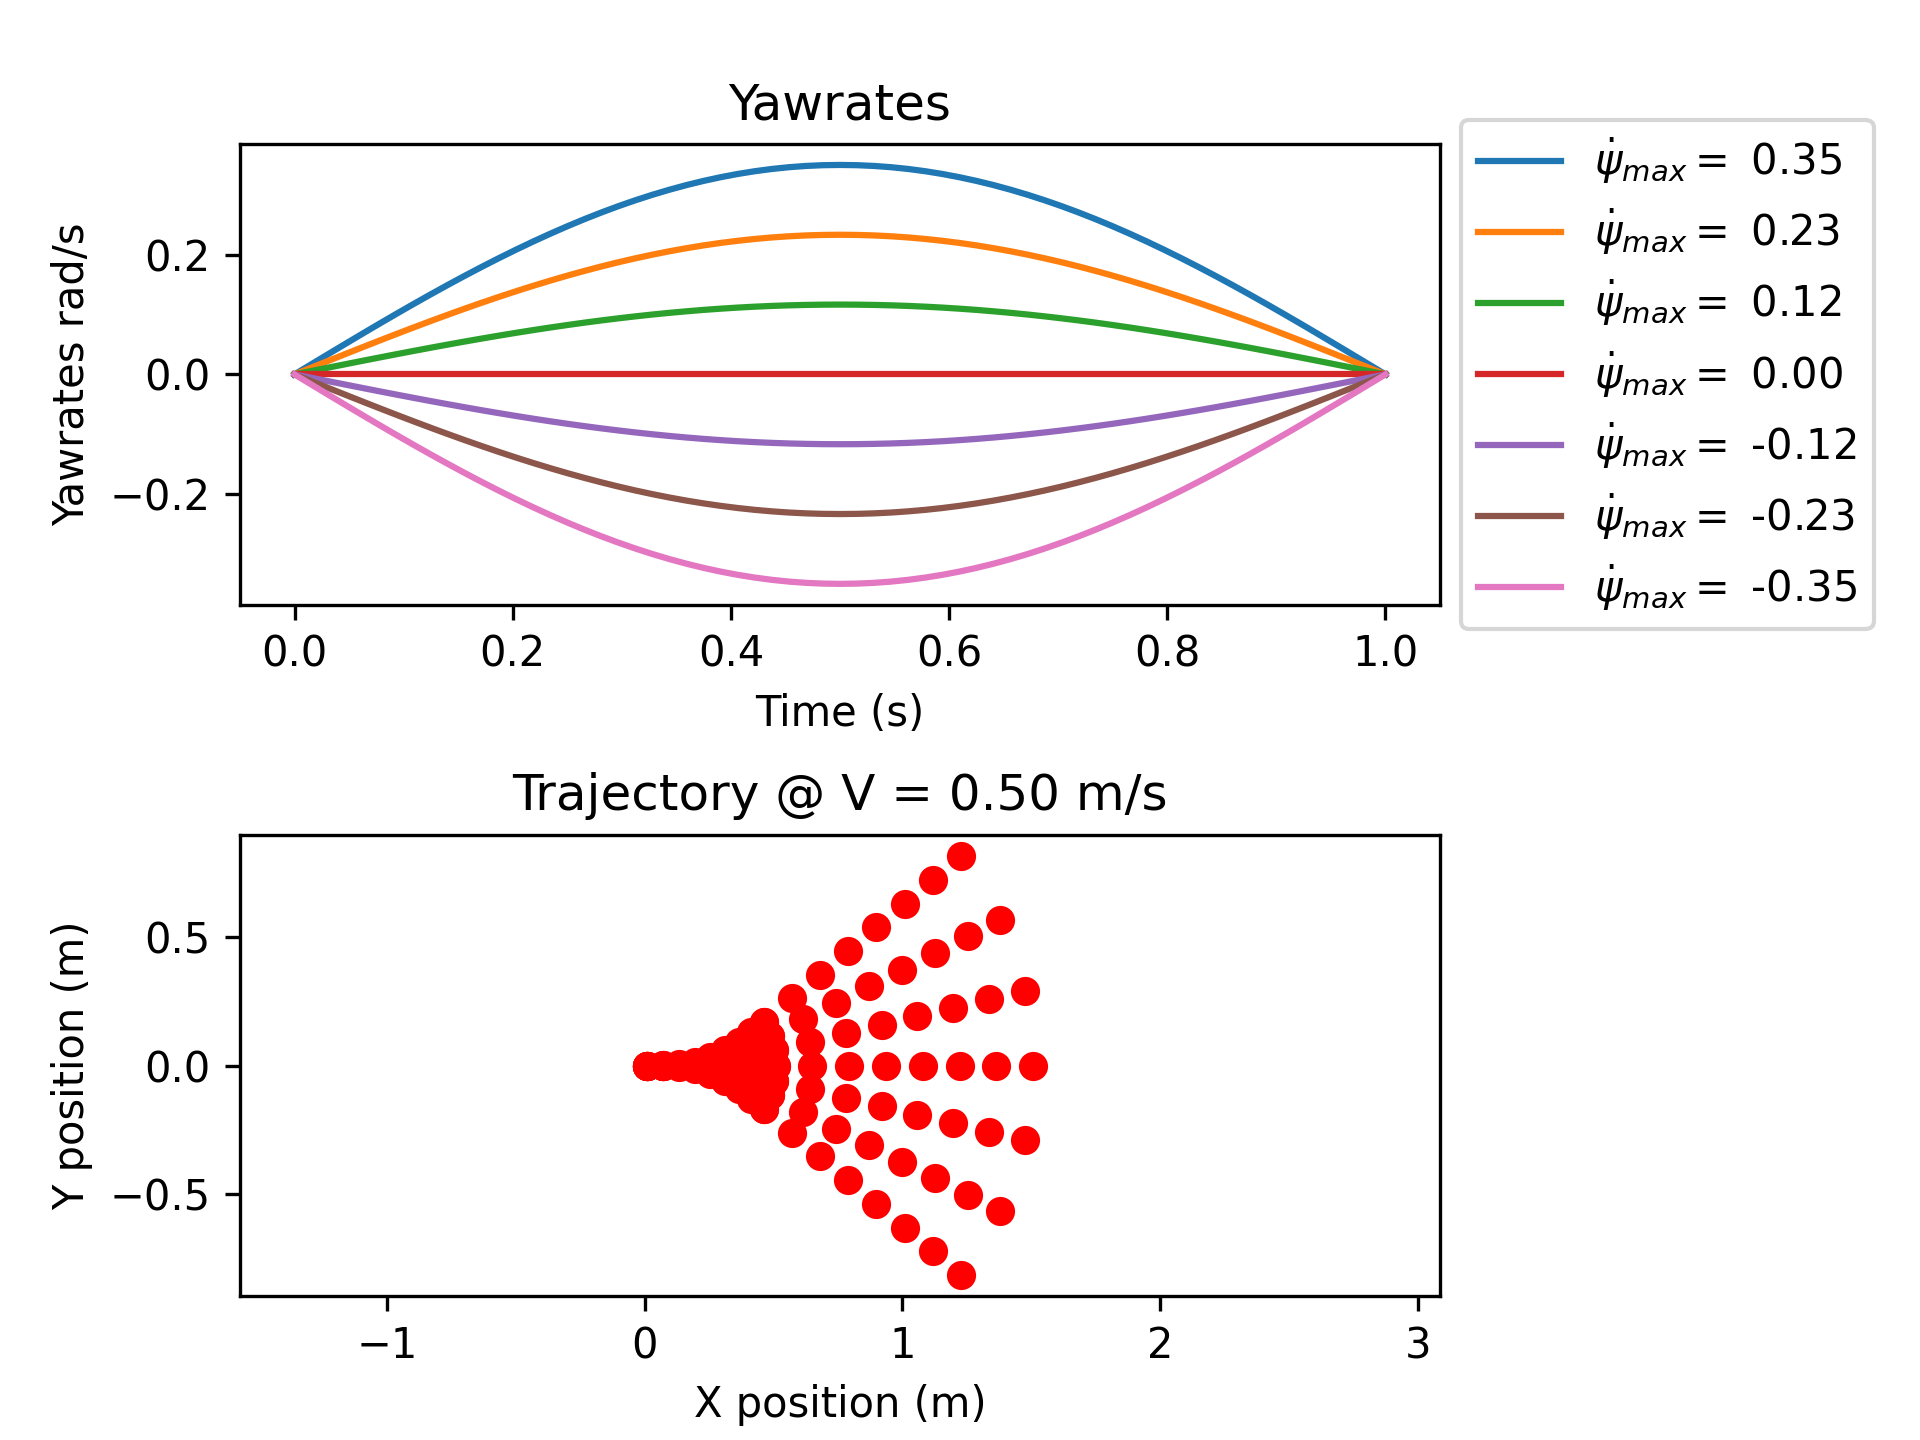
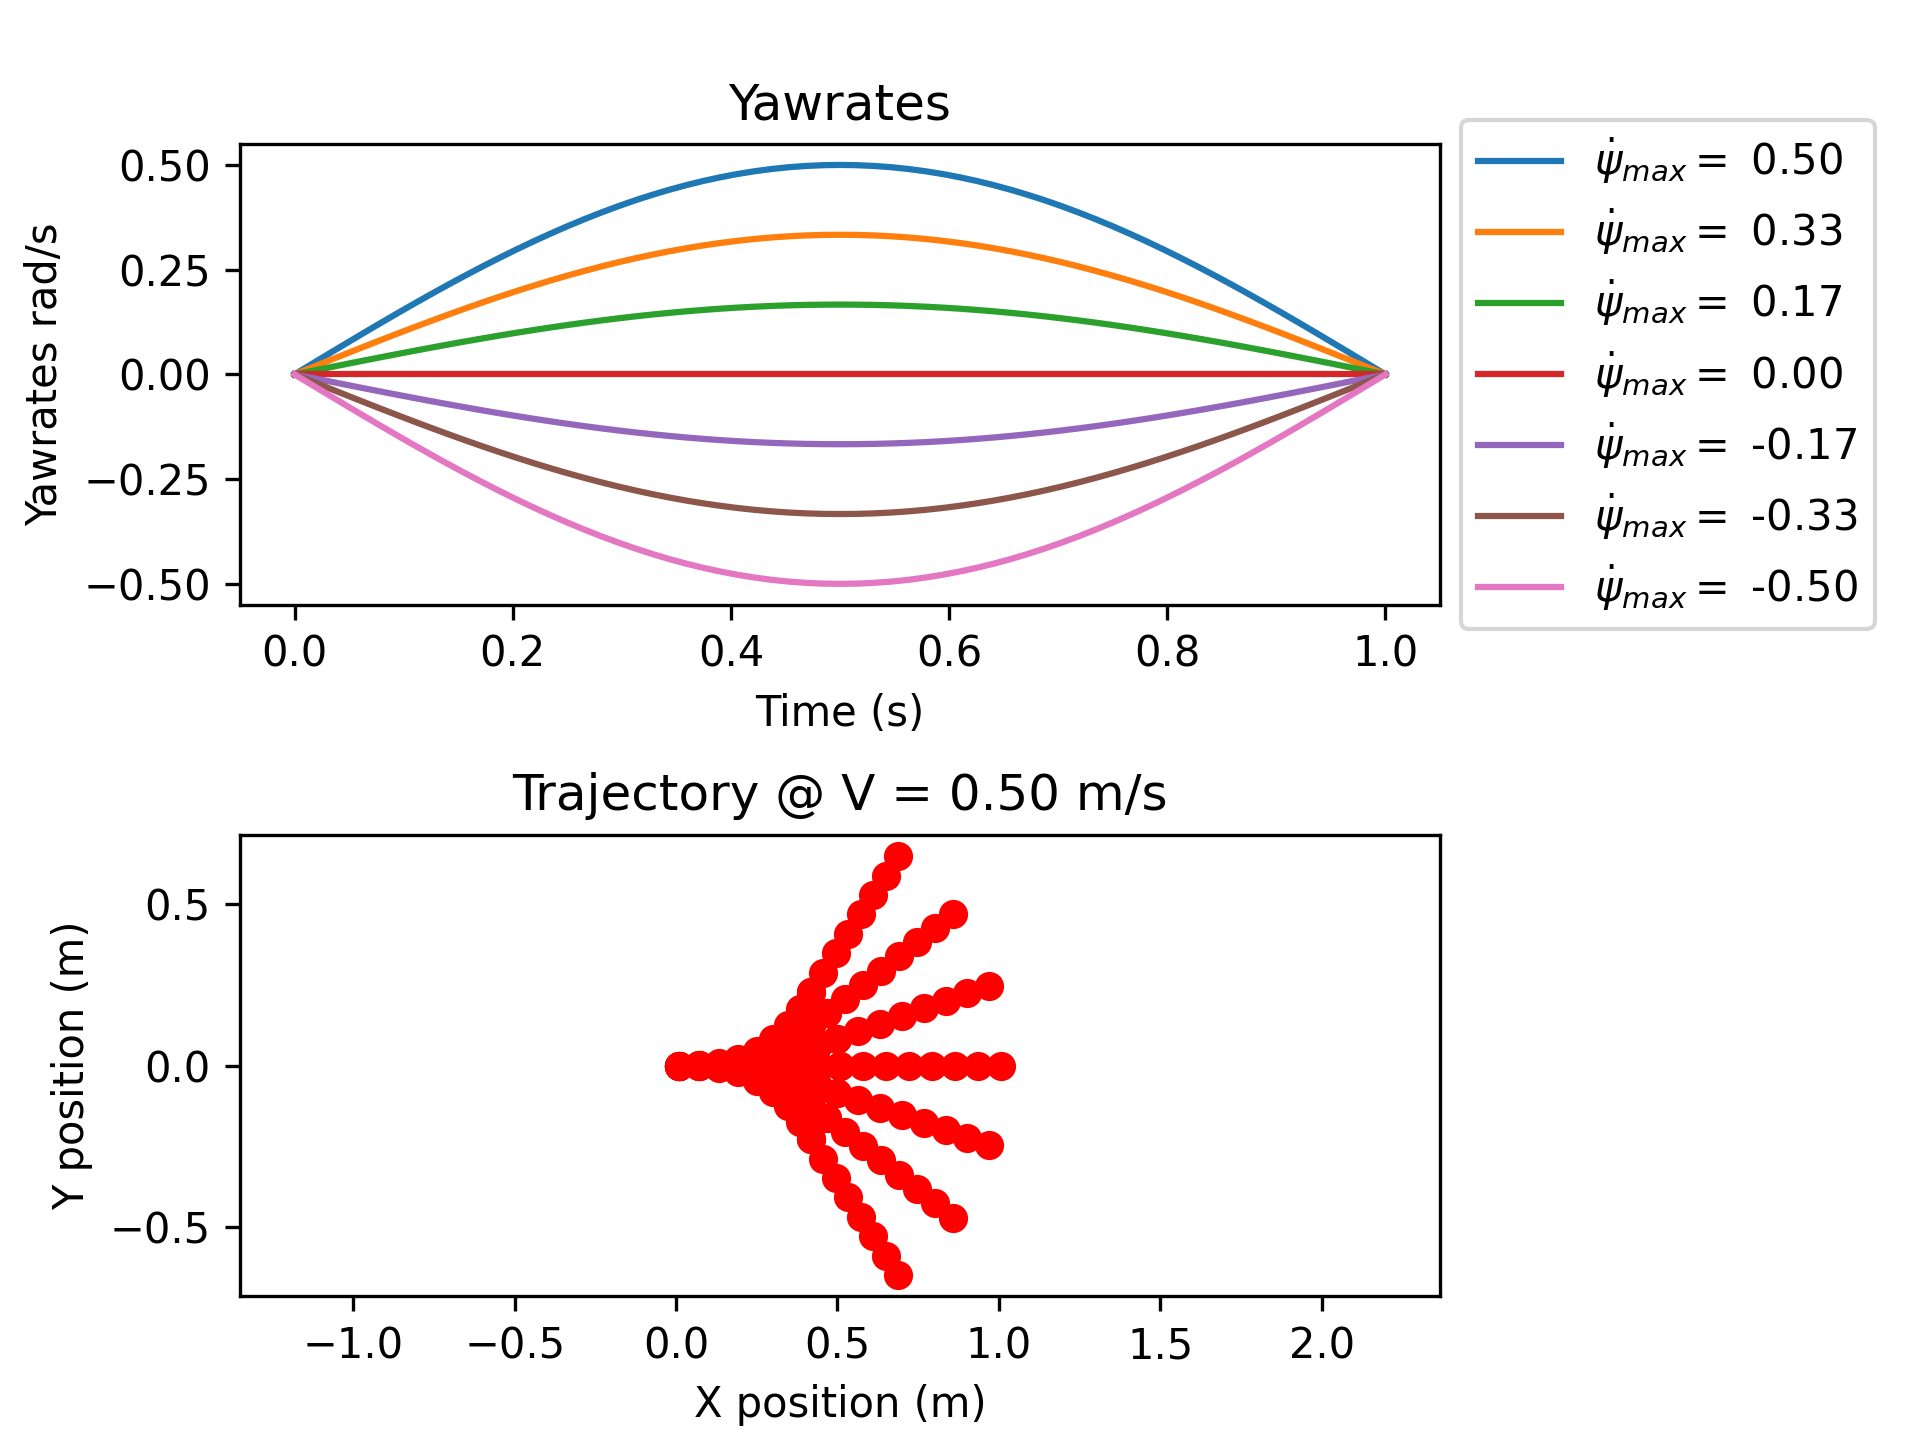
try new extension segment

diff --git a/utils/generate_primitives.py b/utils/generate_primitives.py
@@ -24,13 +24,13 @@ import matplotlib.pyplot as plt
 # Trajectory Constants
 T = 1 # s, period of the primitive
 V = 0.5 # m/s, forward speed
-max_yawrate = 0.35 # rad/s
+max_yawrate = 0.5 # rad/s
 num_trajectories = 7 # number of trajectories should be ODD (e.g., 11) to ensure a straight line is included
 num_commands = 65 # number of points in the trajectory
 num_points = 8 # how many points should be in each primitive and each extension segment? (for primitive evaluation)
 
 # Extension segment - straight line at the end of the trajectory (to encourage foresight)
-x_ext = np.linspace(0., 1.0, num_points) # extension segment in the body frame (x = forward)
+x_ext = np.linspace(0., 0.5, num_points) # extension segment in the body frame (x = forward)
 y_ext = np.zeros_like(x_ext)
 ext = np.vstack((x_ext, y_ext))
 